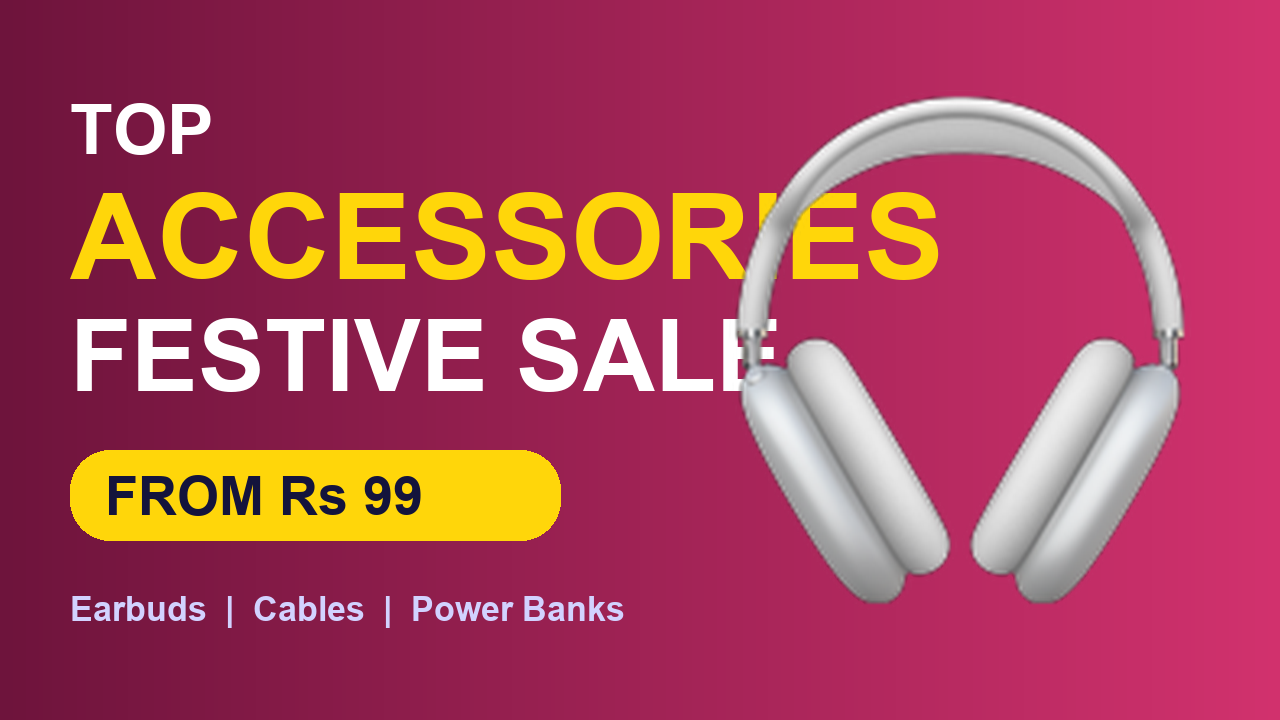
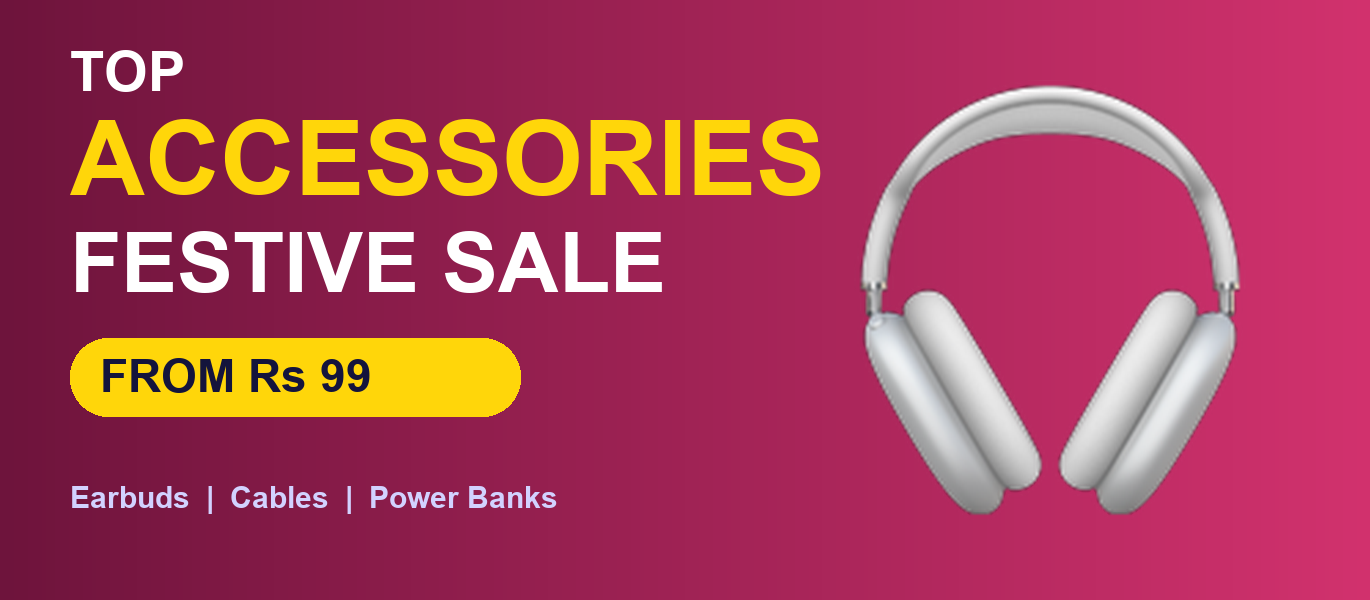
done

Changed region(s): [[0.0312, 0.06, 0.9375, 0.87], [0.0312, 0.81, 0.5, 0.87]]

diff --git a/src/modules/admin/storefront-stores/storefront-stores.routes.js b/src/modules/admin/storefront-stores/storefront-stores.routes.js
@@ -1,0 +1,52 @@
+import { query } from '../../../config/database.js'
+import { success, error } from '../../../utils/apiResponse.js'
+
+/**
+ * Admin: the top-of-home store tiles (label / icon / order / visibility).
+ * Prefix: /api/v1/admin/storefront-stores. The public read is GET /api/v1/theme/stores.
+ */
+export default async function adminStorefrontStoreRoutes(fastify) {
+  fastify.addHook('preHandler', async (request, reply) => {
+    await fastify.authenticate(request, reply)
+    await fastify.requireAdmin(request, reply)
+  })
+
+  fastify.get('/', async () => {
+    const { rows } = await query(
+      `SELECT store_key, label, icon_url, sort_order, is_active, updated_at
+         FROM storefront_stores ORDER BY sort_order ASC, label ASC`,
+    )
+    return success(rows, 'Storefront stores')
+  })
+
+  fastify.put('/:key', {
+    schema: {
+      params: { type: 'object', required: ['key'], properties: { key: { type: 'string', maxLength: 50 } } },
+      body: {
+        type: 'object',
+        additionalProperties: false,
+        properties: {
+          label: { type: 'string', minLength: 1, maxLength: 100 },
+          icon_url: { type: ['string', 'null'], maxLength: 1000 },
+          sort_order: { type: 'integer', minimum: 0, maximum: 999 },
+          is_active: { type: 'boolean' },
+        },
+      },
+    },
+  }, async (request, reply) => {
+    const { label, icon_url, sort_order, is_active } = request.body
+    const { rows } = await query(
+      `UPDATE storefront_stores SET
+          label = COALESCE($2, label),
+          icon_url = CASE WHEN $3::boolean THEN $4 ELSE icon_url END,
+          sort_order = COALESCE($5, sort_order),
+          is_active = COALESCE($6, is_active),
+          updated_at = NOW()
+        WHERE store_key = $1
+        RETURNING store_key, label, icon_url, sort_order, is_active, updated_at`,
+      [request.params.key, label ?? null, Object.prototype.hasOwnProperty.call(request.body, 'icon_url'), icon_url ?? null, sort_order ?? null, is_active ?? null],
+    )
+    if (!rows.length) return reply.code(404).send(error('Store not found', 'NOT_FOUND'))
+    return success(rows[0], 'Store updated')
+  })
+}

diff --git a/src/database/seeds/home-demo.js b/src/database/seeds/home-demo.js
@@ -76,12 +76,22 @@ const themeData = (store) => ({
       containerColor: YELLOW_SOFT,
     },
     bannerAnimation: { lottieUrl: null, containerColor: YELLOW_SOFT, backgroundGradient: [YELLOW_SOFT, YELLOW] },
+    // Home look colours (all editable in the dashboard theme builder; these mirror the design).
+    homeLook: {
+      avatarColor: '#111111', storeTileColor: '#FFFFFF', storeTileActiveColor: '#FCE8B0', storeTileLabelColor: '#111111',
+      searchPillColor: '#FFFFFF', searchPillTextColor: '#111111', sellChipStartColor: '#FBE36B', sellChipEndColor: '#F6D23A', sellChipTextColor: '#111111',
+      heroFrameColor: '#000000', heroDotColor: '#FFFFFF', feeCardColor: '#FFFFFF', feeCardTextColor: '#111111', feeCardCheckColor: '#111111',
+    },
   },
 })
 
 const sectionRows = (store) => [
   ['promo_carousel', { banner_source: 'custom', images: HERO[store].map(url), height: 200 }],
-  ['fee_strip', { visible: true, image_url: null, pill_style: 'soft', accent_color: '#111111' }],
+  ['fee_strip', {
+    visible: true, image_url: null, pill_style: 'soft', accent_color: '#111111',
+    // Demo marketing copy copied from the design — NOT derived from fee_settings (handling/platform fees are ₹5 on the dev DB).
+    title: '₹0 FEES', lines: ['₹0 Handling Fee', '₹0 Delivery Fee*', '₹0 Rain & Surge Fee'], footnote: '*T&C Apply. Savings basis on item & location.',
+  }],
   ['seasonal_mosaic', {
     layout_variant: 'hero_plus_four', hero_ratio: '16:10', tile_radius: 16, container_color: YELLOW_SOFT,
     hero_tile: { title: 'DEAL ZONE', gradient: ['#FFA43A', '#F57C00'], badge_text: 'BUY 1\nGET 2', badge_gradient: ['#111111', '#111111'], image_url: url('deal-zone') },

diff --git a/src/modules/admin/admin.routes.js b/src/modules/admin/admin.routes.js
@@ -26,6 +26,7 @@ import adminAbandonedCartsRoutes from './abandoned-carts/abandoned-carts.routes.
 import { roleRoutes, teamRoutes } from './team/team.routes.js'
 import adminThemeRoutes from './themes/themes.routes.js'
 import adminThemeTabRoutes from './theme-tabs/theme-tabs.routes.js'
+import adminStorefrontStoreRoutes from './storefront-stores/storefront-stores.routes.js'
 import adminSectionRoutes from './sections/sections.routes.js'
 import adminReturnsRoutes from './returns/returns.routes.js'
 
@@ -87,6 +88,7 @@ export default async function adminRoutes(fastify) {
   fastify.register(teamRoutes, { prefix: '/team' })
   fastify.register(adminThemeRoutes, { prefix: '/themes' })
   fastify.register(adminThemeTabRoutes, { prefix: '/theme-tabs' })
+  fastify.register(adminStorefrontStoreRoutes, { prefix: '/storefront-stores' })
   fastify.register(adminSectionRoutes, { prefix: '/sections' })
   fastify.register(adminReturnsRoutes, { prefix: '/returns' })
 }

diff --git a/src/database/seeds/home-demo-assets/generate.py b/src/database/seeds/home-demo-assets/generate.py
@@ -35,17 +35,17 @@ for n, ch in {'store-mobile':'📱','store-mobile-part':'🔧','store-accessorie
     save_icon(n, ch)
 
 def hero(name, l1, l2, l3, pill, chips, ch, c1, c2):
-    W, H = 1280, 720
+    W, H = 1370, 600  # 870:382 design ratio of the home hero frame
     im = gradient(W, H, c1, c2)
     d = ImageDraw.Draw(im)
-    d.text((70, 90), l1, font=font(70), fill='white')
-    d.text((70, 170), l2, font=font(120), fill=(255, 214, 10))
-    d.text((70, 300), l3, font=font(100), fill='white')
-    d.rounded_rectangle((70, 450, 560, 540), 40, fill=(255, 214, 10))
-    d.text((105, 466), pill, font=font(54), fill=(20, 20, 60))
-    d.text((70, 590), chips, font=font(34), fill=(210, 210, 255))
-    e = emoji(ch, 520)
-    im.paste(e, (700, 90), e)
+    d.text((70, 40), l1, font=font(56), fill='white')
+    d.text((70, 100), l2, font=font(104), fill=(255, 214, 10))
+    d.text((70, 215), l3, font=font(84), fill='white')
+    d.rounded_rectangle((70, 338, 520, 416), 38, fill=(255, 214, 10))
+    d.text((100, 350), pill, font=font(46), fill=(20, 20, 60))
+    d.text((70, 480), chips, font=font(30), fill=(210, 210, 255))
+    e = emoji(ch, 440)
+    im.paste(e, (830, 80), e)
     im.save(os.path.join(HERE, name + '.png'))
 
 hero('banner-mobiles', 'LATEST', 'MOBILES', 'BEST PRICES', 'UP TO 70% OFF', 'Brand Warranty  |  Easy EMI  |  Fast Delivery', '📱', (30, 20, 110), (120, 40, 200))
